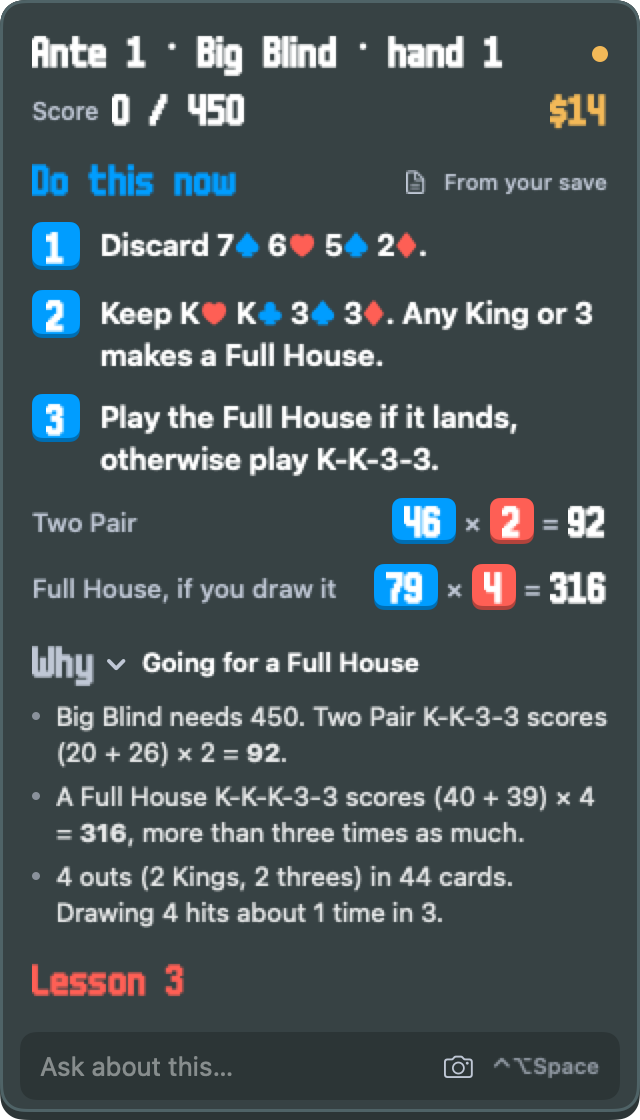
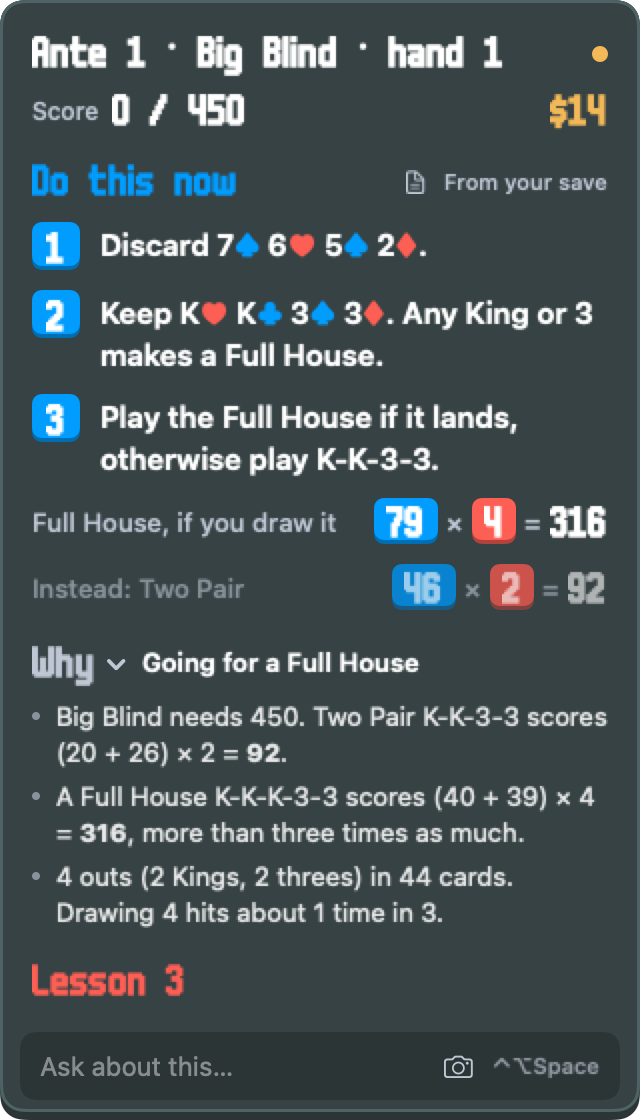
Show the hand you might have played next to the one the coach picked
The score block now has an "Instead" line, dimmed in the panel, so a surprising
pick can be compared with the hand the player expected.

Changed region(s): [[0.5625, 0.4375, 0.9688, 0.5625], [0.0312, 0.4375, 0.5312, 0.5625]]

diff --git a/Sources/BalabroCore/Prompt.swift b/Sources/BalabroCore/Prompt.swift
@@ -17,7 +17,7 @@ enum Prompt {
 
         **Score:**
         - Two Pair: 46 x 2 = 92
-        - Full House, if you draw it: 76 x 4 = 304
+        - Instead, Full House: 76 x 4 = 304
 
         **Goal:** At most eight words. If the steps play a hand now, name it, such as "Playing a Diamond Flush to clear \
         the blind". Otherwise say what this is building towards, such as "Going for a Straight" or "Saving up for a \
@@ -45,9 +45,10 @@ enum Prompt {
         Photograph or Hanging Chad, say the order in the step.
         - If the player holds a consumable that helps this decision, say when to use it in the steps.
         - Include the Score block at every play or discard decision, even when the steps only discard. Give one line \
-        for the best hand available now and one for the hand you're aiming for, at most two, always as \
-        "hand: chips x mult = total", with chips and mult after every card and joker that scores. Leave the block out \
-        in the shop, in a pack and at a blind select.
+        for the hand the steps play or aim for, written as "Full House, if you draw it" when it needs a draw. Then add \
+        one line for the hand the player would most likely play instead, starting "Instead,", even if it's a bigger \
+        kind of hand, so they can compare the two. Write each line as "hand: chips x mult = total", with chips and mult \
+        after every card and joker that scores. Leave the block out in the shop, in a pack and at a blind select.
         - End the steps at the first discard, play, reroll or pack opening, because that changes the board and you get the new state \
         straight away. Your next answer replaces these steps, so anything after that point would vanish. Put what \
         comes after in the Goal instead. Dragging jokers and buying cards don't change the board, so they can come \

diff --git a/Sources/BalabroCore/Advice.swift b/Sources/BalabroCore/Advice.swift
@@ -21,6 +21,8 @@ public struct Advice: Sendable, Equatable {
     public struct ScoreLine: Sendable, Equatable {
         public var label: String
         public var sum: Sum?
+        /// The hand the player might have chosen, shown for comparison.
+        public var isAlternative: Bool
 
         public struct Sum: Sendable, Equatable {
             public var chips: String
@@ -29,15 +31,19 @@ public struct Advice: Sendable, Equatable {
             public init(chips: String, mult: String, total: String) { (self.chips, self.mult, self.total) = (chips, mult, total) }
         }
 
-        public init(label: String, sum: Sum? = nil) { (self.label, self.sum) = (label, sum) }
+        public init(label: String, sum: Sum? = nil, isAlternative: Bool = false) {
+            (self.label, self.sum, self.isAlternative) = (label, sum, isAlternative)
+        }
 
         init(line: String) {
-            let text = line.replacing("**", with: "")
+            var text = line.replacing("**", with: "")
+            let isAlternative = text.lowercased().hasPrefix("instead")
+            if isAlternative { text = "Instead: " + text.dropFirst("instead".count).drop { ",: ".contains($0) } }
             guard let match = text.wholeMatch(of: /(.*?)[:\s]*([\d,.]+)\s*[x×]\s*([\d,.]+)\s*=\s*([\d,]+(?:\.\d+)?(?:e\+?\d+)?)\.?/) else {
-                self.init(label: text)
+                self.init(label: text, isAlternative: isAlternative)
                 return
             }
-            self.init(label: String(match.1), sum: Sum(chips: String(match.2), mult: String(match.3), total: String(match.4)))
+            self.init(label: String(match.1), sum: Sum(chips: String(match.2), mult: String(match.3), total: String(match.4)), isAlternative: isAlternative)
         }
     }
 

diff --git a/Tests/BalabroCoreTests/AdviceTests.swift b/Tests/BalabroCoreTests/AdviceTests.swift
@@ -111,4 +111,12 @@ struct AdviceTests {
     @Test func answerWithoutAGoalHasNone() {
         #expect(Advice(markdown: "**Do this now:**\n1. Discard 7♠.").goal == nil)
     }
+
+    @Test func insteadLineIsMarkedAsTheAlternative() {
+        let a = Advice(markdown: "**Score:**\n- Pair of 9s: 58 x 33 = 1,914\n- Instead, Full House: 78 x 4 = 312")
+        #expect(a.score == [
+            .init(label: "Pair of 9s", sum: .init(chips: "58", mult: "33", total: "1,914")),
+            .init(label: "Instead: Full House", sum: .init(chips: "78", mult: "4", total: "312"), isAlternative: true),
+        ])
+    }
 }

diff --git a/Sources/Balabro/Previews.swift b/Sources/Balabro/Previews.swift
@@ -55,8 +55,8 @@ enum Previews {
             "Play the Full House if it lands, otherwise play K-K-3-3.",
         ],
         score: [
-            .init(label: "Two Pair", sum: .init(chips: "46", mult: "2", total: "92")),
             .init(label: "Full House, if you draw it", sum: .init(chips: "79", mult: "4", total: "316")),
+            .init(label: "Instead: Two Pair", sum: .init(chips: "46", mult: "2", total: "92"), isAlternative: true),
         ],
         goal: "Going for a Full House",
         why: [

diff --git a/Sources/Balabro/OverlayView.swift b/Sources/Balabro/OverlayView.swift
@@ -394,6 +394,7 @@ private struct ScoreRow: View {
                 .fixedSize()
             }
         }
+        .opacity(line.isAlternative ? 0.6 : 1)
     }
 
     private func tile(_ number: String, _ background: ChipTile) -> some View {
